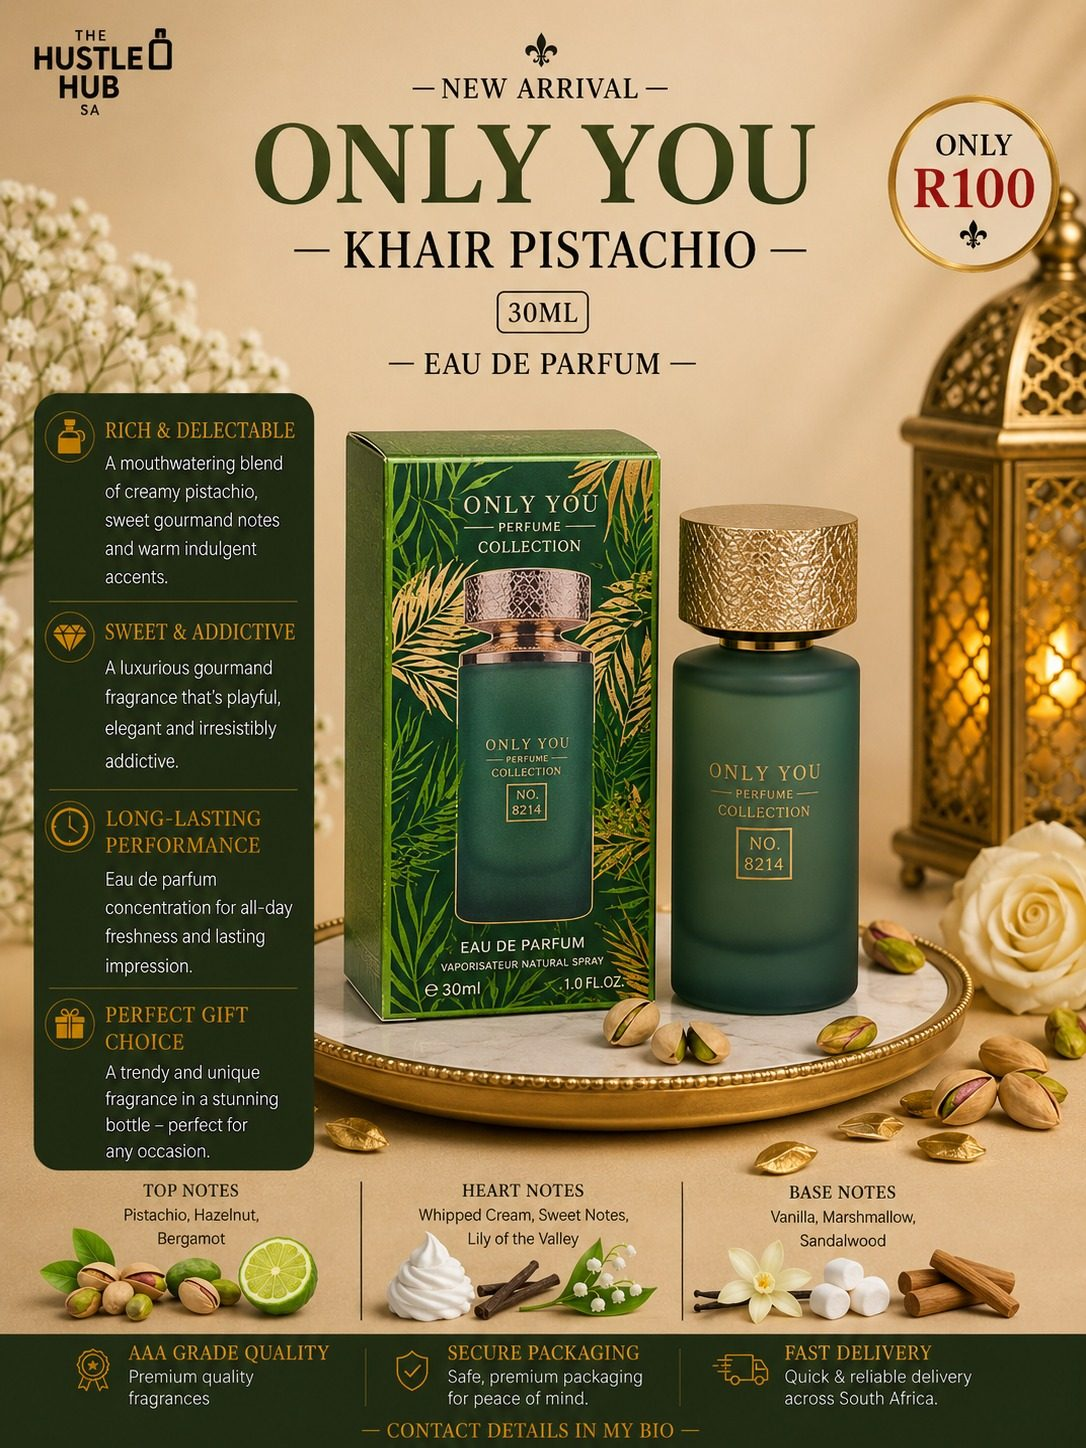
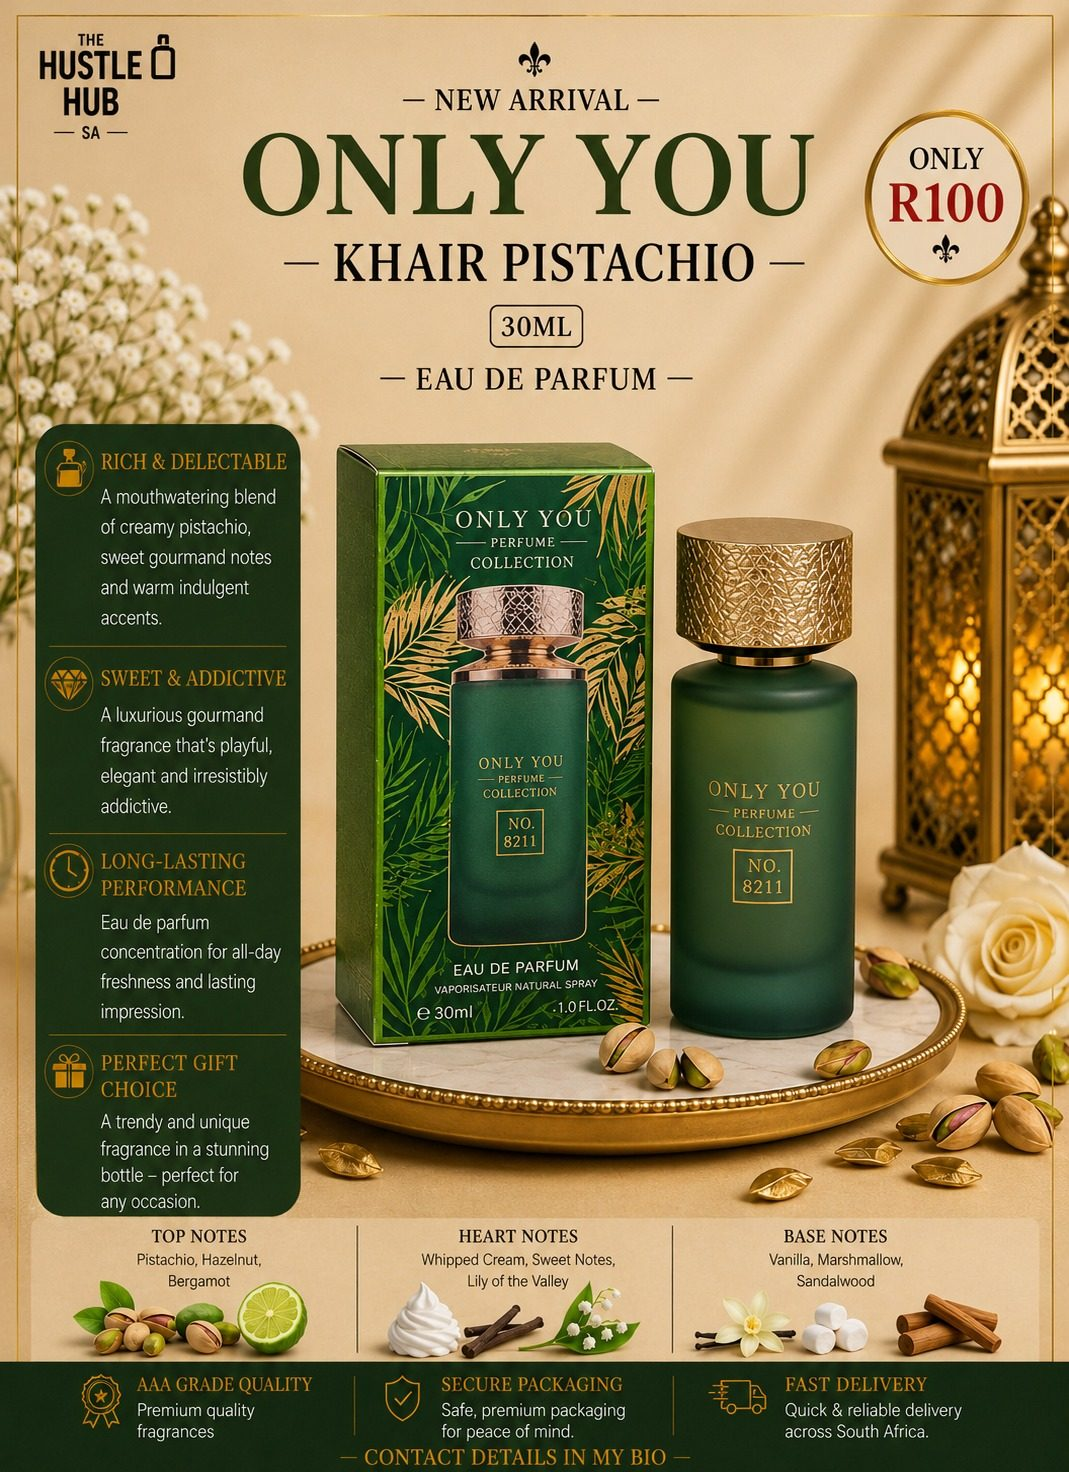
Update Khair Pistachio with corrected collection number (No. 8211)
Fixes the duplicate number issue (was sharing No. 8214 with Vulcan Feu).

diff --git a/onlyyou-collection.html b/onlyyou-collection.html
@@ -870,7 +870,7 @@ footer{background:var(--bg2);border-top:1px solid var(--border);padding:40px 32p
         <div class="product-info">
           <div class="badge badge-gold">New Arrival</div>
           <div class="product-name">Khair Pistachio</div>
-          <div class="product-sub">Only You Collection · EDP · 30ml</div>
+          <div class="product-sub">Only You Collection No. 8211 · EDP · 30ml</div>
           <div class="product-footer">
             <span class="product-price">R100</span>
             <button class="add-btn" onclick="addToCart('Only You Khair Pistachio — 30ml','R100','onlyyou-dubai-khair-pistachio.jpg')">+ Add to Order</button>